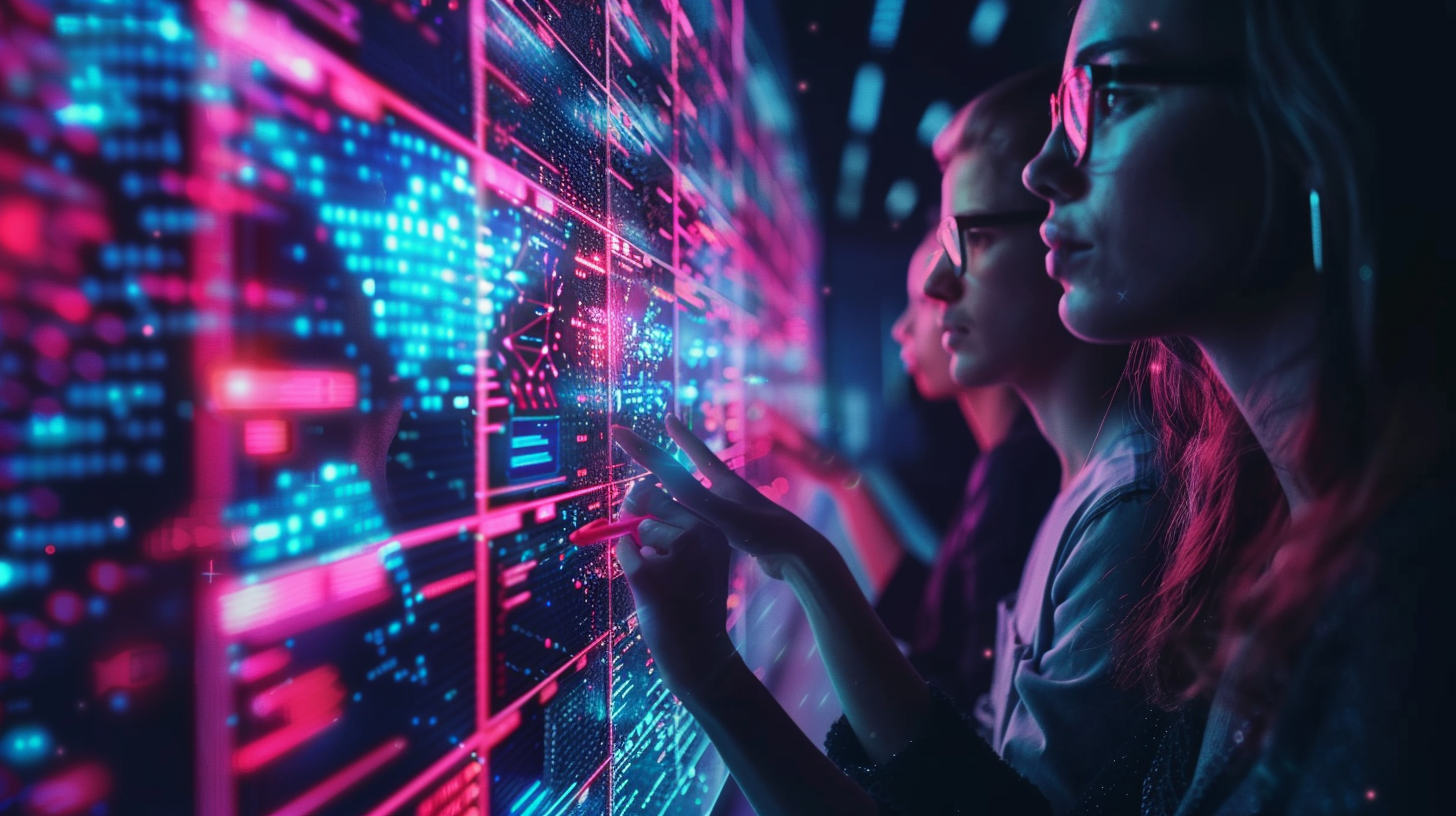
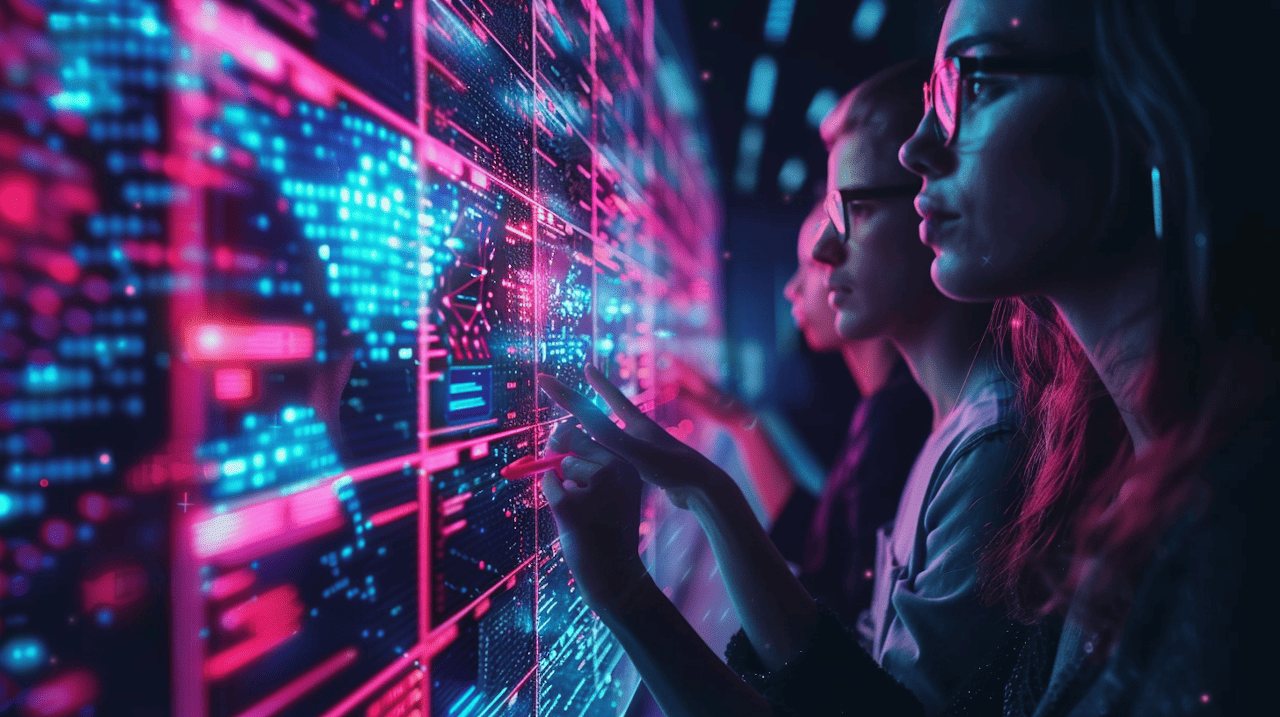
ft: add thumbnails

diff --git a/src/pages/blog/post-preview.tsx b/src/pages/blog/post-preview.tsx
@@ -8,7 +8,7 @@ export const PostPreview: FC<PostPreviewProps> = ({
   post,
   handleSelectPost,
 }) => {
-  const { title, image, content } = post;
+  const { title, thumbnails, content } = post;
   return (
     <Card
       sx={{
@@ -23,7 +23,7 @@ export const PostPreview: FC<PostPreviewProps> = ({
     >
       <CardMedia
         component="img"
-        src={`/${image}`}
+        src={`/${thumbnails}`}
         alt={title}
         sx={{ height: '191px' }}
       />

diff --git a/src/components/header/header.tsx b/src/components/header/header.tsx
@@ -33,7 +33,7 @@ export const Header = () => {
           backgroundColor: 'background.paper',
           borderRadius: '0 0 40px 40px',
           transition: 'height 0.3s ease',
-          zIndex: { xs: 1400, lg: 1100 },
+          zIndex: hasRelevantSearchParam ? 1400 : 1100,
         }}
       >
         <Toolbar

diff --git a/src/pages/blog/types.ts b/src/pages/blog/types.ts
@@ -2,6 +2,7 @@ export type PostType = {
   id: number;
   title: string;
   image: string;
+  thumbnails: string;
   content: string;
 };
 
